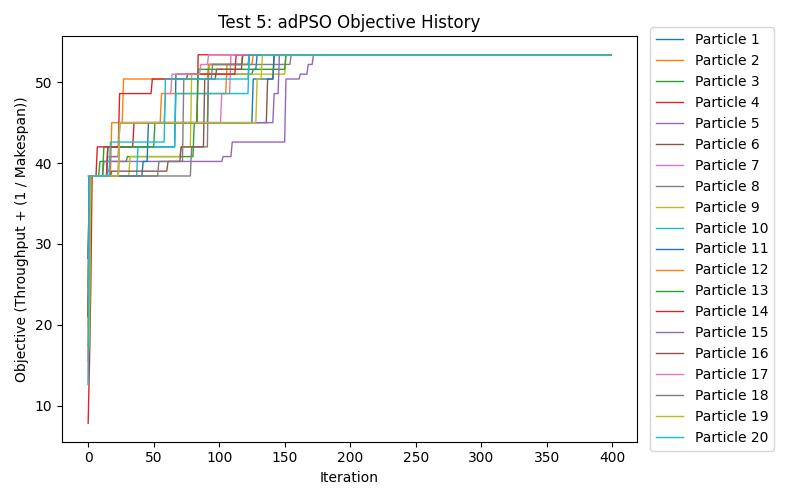
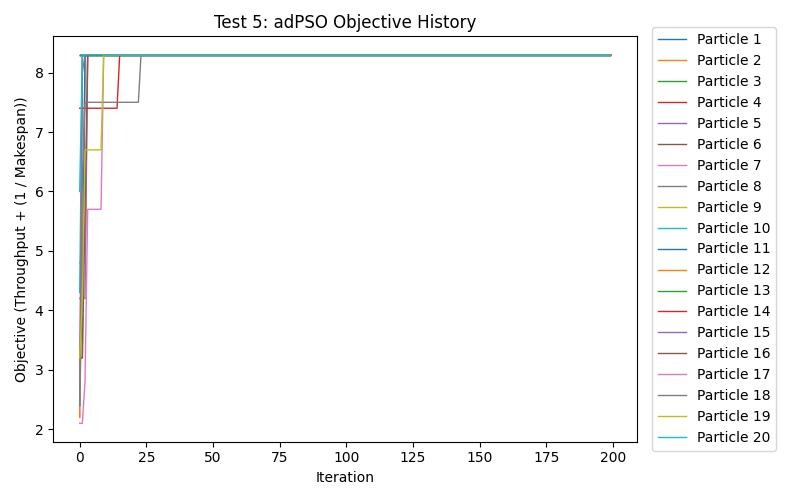
add energy consumption to objective function

diff --git a/psoscheduler/src/main/java/syslab/cloudcomputing/pso/Particle.java b/psoscheduler/src/main/java/syslab/cloudcomputing/pso/Particle.java
@@ -32,8 +32,6 @@ public class Particle {
 
   private Matrix personalBestPosition;
   private double personalBestObjectiveValue;
-  private double personalBestMakespan;
-  private double personalBestThroughput;
 
   private ArrayList<Double> objectiveHistory = new ArrayList<Double>();
 
@@ -80,19 +78,10 @@ public class Particle {
     this.objectiveHistory.add(this.personalBestObjectiveValue);
 
     if (objective > this.personalBestObjectiveValue) {
-      // System.out.println("BETTER POSITION");
       this.personalBestPosition = this.position.copy();
       this.personalBestObjectiveValue = objective;
-      // TODO remove the following two lines when benchmarking
-      this.personalBestMakespan = this.dataCenter.computeMakespan();
-      this.personalBestThroughput = this.dataCenter.computeThroughput();
       return 1;
     }
-    // } else if (objective < this.personalBestObjectiveValue){
-    //   System.out.println("WORSE POSITION");
-    // } else {
-    //   System.out.println("SAME POSITION");
-    // }
 
     return 0;
   }
@@ -111,9 +100,6 @@ public class Particle {
     // objective function computation
     this.personalBestPosition = this.position;
     this.personalBestObjectiveValue = this.dataCenter.computeObjective();
-    // TODO remove
-    this.personalBestMakespan = this.dataCenter.computeMakespan();
-    this.personalBestThroughput = this.dataCenter.computeThroughput();
   }
 
   // Minimum completion time algorithm used for initialization as per https://www.sciencedirect.com/science/article/pii/S1319157820305279#e0045
@@ -144,9 +130,6 @@ public class Particle {
     updateDataCenter();
     this.personalBestPosition = this.position;
     this.personalBestObjectiveValue = this.dataCenter.computeObjective();
-    // TODO remove
-    this.personalBestMakespan = this.dataCenter.computeMakespan();
-    this.personalBestThroughput = this.dataCenter.computeThroughput();
   }
 
   // Initialization strategy used in this paper: https://www.mdpi.com/2079-9292/12/12/2580
@@ -179,9 +162,6 @@ public class Particle {
     updateDataCenter();
     this.personalBestPosition = this.position;
     this.personalBestObjectiveValue = this.dataCenter.computeObjective();
-    // TODO remove
-    this.personalBestMakespan = this.dataCenter.computeMakespan();
-    this.personalBestThroughput = this.dataCenter.computeThroughput();
   }
 
   private void updateDataCenter() {
@@ -258,14 +238,6 @@ public class Particle {
 
   public double getPersonalBestObjectiveValue() {
     return this.personalBestObjectiveValue;
-  }
-
-  public double getPersonalBestMakespan() {
-    return this.personalBestMakespan;
-  }
-
-  public double getPersonalBestThroughput() {
-    return this.personalBestThroughput;
   }
 
   public ArrayList<Double> getObjectiveHistory() {

diff --git a/psoscheduler/src/main/java/syslab/cloudcomputing/schedule/Scheduler.java b/psoscheduler/src/main/java/syslab/cloudcomputing/schedule/Scheduler.java
@@ -3,6 +3,7 @@ package syslab.cloudcomputing.schedule;
 import java.lang.reflect.InvocationTargetException;
 import java.lang.reflect.Method;
 import java.util.ArrayList;
+import java.util.Map;
 
 import syslab.cloudcomputing.utils.Utilities;
 
@@ -13,7 +14,7 @@ import syslab.cloudcomputing.simulation.*;
 public class Scheduler {
     public static void main(String[] args) {
         // Set random seed
-        Utilities.setSeed(0);
+        Utilities.setSeed(1);
 
         DataCenter dataCenter;
         Workload workload;
@@ -60,15 +61,21 @@ public class Scheduler {
     public static void runSingleTest(DataCenter dataCenter, Workload workload, Boolean recordObjectiveHistory) {
         PSOSwarm swarm = new PSOSwarm(dataCenter, workload);
         swarm.runPSOAlgorithm();
+
+        System.out.println("Global Best Objective: " + swarm.globalBestObjectiveValue);
+        
+        dataCenter.resetVirtualMachineReadyTimes();
+        for (Map.Entry<Task, VirtualMachine> entry : swarm.globalBestTaskVmMapping.entrySet()) {
+            dataCenter.addExecutionTimeToVirtualMachine(entry.getKey(), entry.getValue());
+        }
+
+        System.out.println("Global Best Makespan: " + dataCenter.computeMakespan() + " sec");
+        System.out.println("Global Best Throughput: " + dataCenter.computeThroughput() + " tasks/sec");
+        System.out.println("Global Best Energy Consumption: " + dataCenter.computeEnergyConsumption() + " MJ * MIPS");
+        
+        System.out.print("Saving objective history to objective_history.csv... ");
         
         if (recordObjectiveHistory) {
-            // System.out.println("Global Best Position: " + swarm.globalBestPosition);
-            System.out.println("Global Best Objective: " + swarm.globalBestObjectiveValue);
-            System.out.println("Global Best Makespan: " + swarm.globalBestMakespan + " sec");
-            System.out.println("Global Best Throughput: " + swarm.globalBestThroughput + " tasks/sec");
-            // System.out.println("Global Best Mapping: " + swarm.globalBestTaskVmMapping);
-            System.out.print("Saving objective history to objective_history.csv... ");
-            
             ArrayList<ArrayList<Double>> history = swarm.getParticleObjectiveHistory();
             Utilities.writeObjectiveHistoryToCSV(history, "output_data/objective_history.csv");
 

diff --git a/psoscheduler/src/main/java/syslab/cloudcomputing/simulation/DataCenter.java b/psoscheduler/src/main/java/syslab/cloudcomputing/simulation/DataCenter.java
@@ -59,11 +59,36 @@ public abstract class DataCenter {
 
   public double computeObjective() {
 		double makespan = this.computeMakespan();
-    // Compute throughput manually as to not recompute makespan
-		double throughput = this.taskCount / makespan;
-		
-		return throughput + (1 / makespan);
+    double throughput = (this.taskCount / makespan);
+    double energyConsumption = this._computeEnergyConsumption(makespan);
+    double averageEnergyConsumptionPerTask  = energyConsumption / this.taskCount;
+    // Scale the energy consumption to an appropriate weight in the objective function
+    return throughput + (100.0 / averageEnergyConsumptionPerTask);
 	}
+
+  // Private version that doesn't recompute the makespan to prioritize efficiency
+  private double _computeEnergyConsumption(double makespan) {
+    double energyConsumption = 0;
+
+    for (Map.Entry<VirtualMachine, Double> entry : this.virtualMachineReadyTime.entrySet()) {
+      VirtualMachine vm = entry.getKey();
+      double millionsOfInstructions = entry.getValue();
+      double machineEnergyConsumption = millionsOfInstructions * vm.getActiveStateJoulesPerMillionInstructions();
+      machineEnergyConsumption += (makespan - millionsOfInstructions) * vm.getIdleStateJoulesPerMillionInstructions();
+      machineEnergyConsumption *= vm.getMillionsOfInstructionsPerSecond();
+      energyConsumption += machineEnergyConsumption;
+    }
+
+    // Convert from(Joules * MIPS) to (megaJoules * MIPS)
+    energyConsumption /= 1000000.0;
+
+    return energyConsumption;
+  }
+
+  public double computeEnergyConsumption() {
+    double makespan = this.computeMakespan();
+    return this._computeEnergyConsumption(makespan);
+  }
 
   public double computeMakespan() {
     double maxMakespan = 0.0;

diff --git a/psoscheduler/src/main/java/syslab/cloudcomputing/pso/PSOSwarm.java b/psoscheduler/src/main/java/syslab/cloudcomputing/pso/PSOSwarm.java
@@ -15,7 +15,7 @@ public class PSOSwarm {
 
   private final int maxIterations = 200;
   private static final int nSwarms = 5;
-  private static final int nParticles = 70;
+  private static final int nParticles = 20;
 
   private double p_s = 1.0;
 
@@ -23,8 +23,6 @@ public class PSOSwarm {
 
   public Matrix globalBestPosition;
   public double globalBestObjectiveValue = 0;
-  public double globalBestMakespan = 0;
-  public double globalBestThroughput = 0;
   private ArrayList<Double> objectiveHistory = new ArrayList<Double>();
 
   public HashMap<Task, VirtualMachine> globalBestTaskVmMapping = new HashMap<Task, VirtualMachine>();
@@ -43,7 +41,7 @@ public class PSOSwarm {
   private void initializeSwarm(int nParticles) {
     this.particles = new ArrayList<Particle>();
     for (int i = 0; i < nParticles; i++) {
-      Particle particle = new Particle(this.dataCenter, this.workload, Particle.InitializationStrategy.MCT);
+      Particle particle = new Particle(this.dataCenter, this.workload, Particle.InitializationStrategy.RANDOM);
       this.particles.add(particle);
     }
 
@@ -123,9 +121,6 @@ public class PSOSwarm {
       if (p.getPersonalBestObjectiveValue() > this.globalBestObjectiveValue) {
         this.globalBestObjectiveValue = p.getPersonalBestObjectiveValue();
         this.globalBestPosition = p.getPersonalBestPosition().copy();
-        // TODO remove the following two lines when benchmarking
-        this.globalBestMakespan = p.getPersonalBestMakespan();
-        this.globalBestThroughput = p.getPersonalBestThroughput();
         newBest = true;
       }
     }

diff --git a/psoscheduler/src/main/java/syslab/cloudcomputing/simulation/VirtualMachine.java b/psoscheduler/src/main/java/syslab/cloudcomputing/simulation/VirtualMachine.java
@@ -14,7 +14,7 @@ public class VirtualMachine {
 	public VirtualMachine(int millionsOfInstructionsPerSecond) {
 		this.id = VirtualMachine.idCounter++;
 		this.millionsOfInstructionsPerSecond = millionsOfInstructionsPerSecond;
-		this.activeStateJoulesPerMillionInstructions = 
+		this.activeStateJoulesPerMillionInstructions = 500;
 		this.dataCenterId = 0;
 	}
 
@@ -43,7 +43,7 @@ public class VirtualMachine {
 	}
 
   public String toString() {
-    return String.format("(VM%d: %d mips)", this.id, this.millionsOfInstructionsPerSecond);
+    return String.format("(VM%d: %d mips, %d J/MI)", this.id, this.millionsOfInstructionsPerSecond, this.activeStateJoulesPerMillionInstructions);
   }
 
   public int getId() {

diff --git a/psoscheduler/src/main/java/syslab/cloudcomputing/utils/Utilities.java b/psoscheduler/src/main/java/syslab/cloudcomputing/utils/Utilities.java
@@ -20,6 +20,9 @@ public class Utilities {
 	 * @param The maximum value to take exclusively
 	 */
 	public static Integer getRandomInteger(int min, int max) {
+		if (min == max) {
+			return min;
+		}
 		return rand.nextInt(max - min) + min;
 	}
 	
@@ -29,6 +32,9 @@ public class Utilities {
 	 * @param The maximum value to take exclusively
 	 */
 	public static Double getRandomDouble(double min, double max) {
+		if (min == max) {
+			return min;
+		}
 		return rand.nextDouble() * (max - min) + min;
 	}
 

diff --git a/plot_objective_history.py b/plot_objective_history.py
@@ -11,7 +11,7 @@ def plot(test_id, particle_histories, path):
 
   plt.title(f"Test {test_id}: adPSO Objective History")
   plt.xlabel("Iteration")
-  plt.ylabel("Objective (Throughput + (1 / Makespan))")
+  plt.ylabel("Objective (Throughput + (1 / Energy Consumption))")
   plt.legend(bbox_to_anchor = (1.25, 0.5), loc='center right')
   plt.tight_layout()
 
